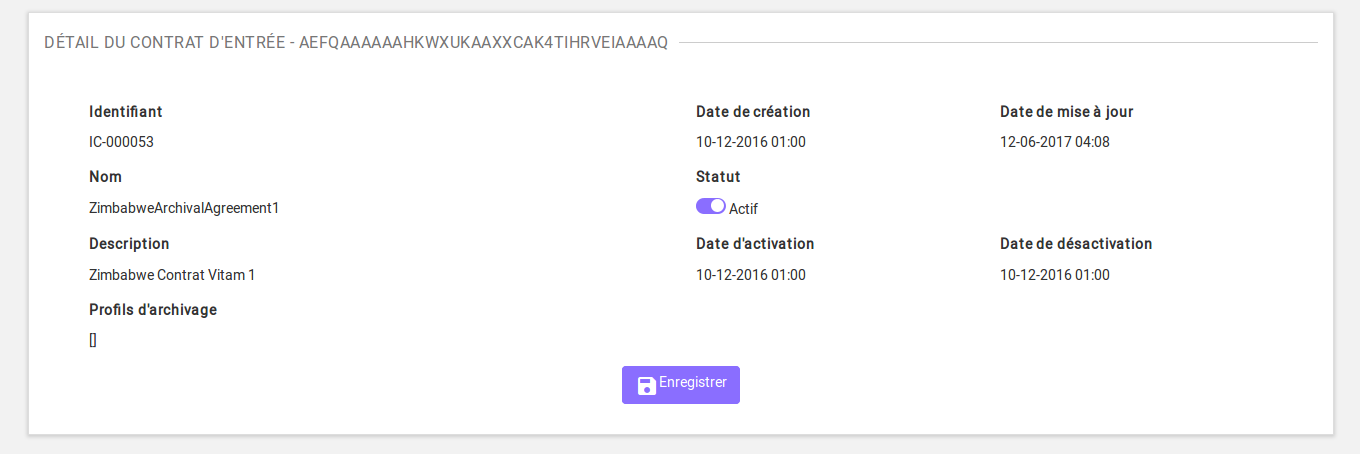
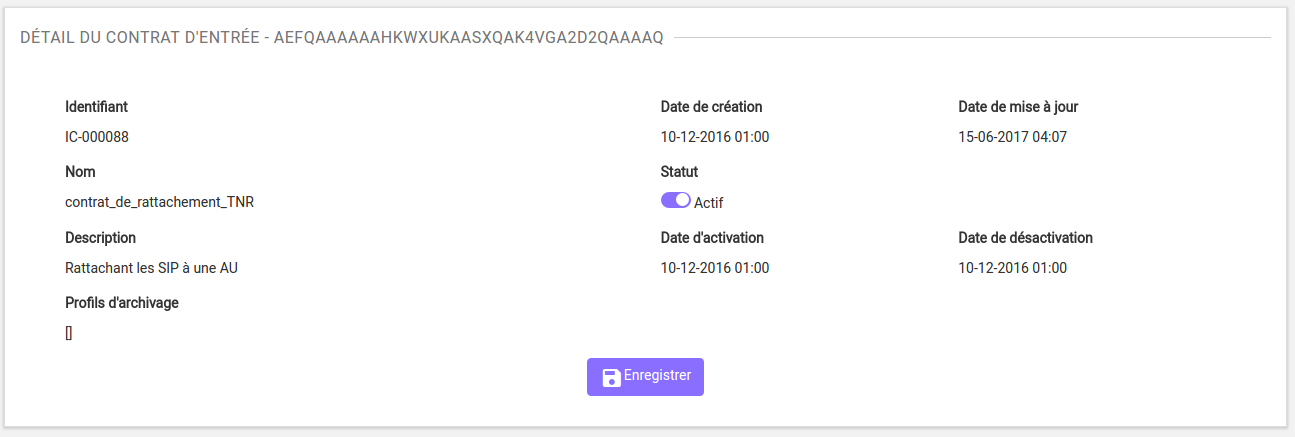
User manual update Linagora IT20

diff --git a/doc/fr/manuel-utilisateur/Administration.rst b/doc/fr/manuel-utilisateur/Administration.rst
@@ -60,9 +60,9 @@ Suite à la recherche, le résultat de la recherche est affiché sous forme de t
 
 .. image:: images/op_resultat.png
 
-L'utilisateur a la possibilité d'afficher des colonnes supplémentaires afin de faire apparaître les autres informations contenues dans le journal des opérations. 
+L'utilisateur a la possibilité d'afficher des colonnes supplémentaires afin de faire apparaître les autres informations contenues dans le journal des opérations.
 
-Pour cela il clique sur le bouton "Informations complémentaires" et sélectionne les informations qu'il souhaite afficher. 
+Pour cela il clique sur le bouton "Informations complémentaires" et sélectionne les informations qu'il souhaite afficher.
 
 Celles-ci sont :
 
@@ -80,7 +80,7 @@ Celles-ci sont :
 - Identifiant externe de l'objet
 - Identifiant du tenant
 
-L'utilisateur a la possibité d'afficher toutes les colonnes supplémentaires en cliquant sur "Tout  sélectionner". 
+L'utilisateur a la possibité d'afficher toutes les colonnes supplémentaires en cliquant sur "Tout  sélectionner".
 
 .. image:: images/op_tout_selectionner.png
 
@@ -329,106 +329,33 @@ Les sous-menus permettant d'accéder aux interfaces de recherche et d’import d
 
 .. image:: images/CONTRACTS_Menu.png
 
-Contrats d'entrée
------------------
-
-**Importer un contrat d'entrée**
-
-Pour importer un contrat d'entrée, l'utilisateur clique sur le menu "Administration" puis sur le sous-menu "importer des contrats d'entrée".
-
-.. image:: images/CONTRACTS_Menu_import_ingest.png
-
-Les contrats d'entrée sont des fichiers JSON constitués des champs suivants :
-
-* Name : nom du contrat (obligatoire)
-* Description : description du contrat (obligatoire)
-* Status : statut du contrat. ACTIVE ou INACTIVE
-
-Il sélectionne ensuite le fichier à importer en cliquant sur "parcourir", puis clique sur "importer" pour lancer l'opération.
-
-.. image:: images/CONTRACTS_ingest_contract_import.png
-
-Une fenêtre modale indique alors soit :
-
-* Les contrats ont bien été importés
-* Échec de l'import du fichier. Ceci peut être causé par :
-	* le fait que les contrats mentionnés existent déjà pour le tenant
-	* le fait que le fichier JSON est invalide
-
-Cette opération est journalisée et disponible dans le Journal des Opérations.
-
-**Rechercher un contrat d'entrée**
-
-Pour accéder à la recherche de contrats d'entrée, l'utilisateur clique sur le menu "Administration", puis sur le sous-menu "Contrat d'entrée".
-
-La page affiche un formulaire de recherche composé des champs suivants :
-
-* Nom du contrat : permet d'effectuer une recherche approchante sur les noms des contrats d'entrée disponibles dans la solution logicielle Vitam.
-* Identifiant : permet d'effectuer une recherche exacte sur les identifiants des contrats.
-
-Par défaut, la solution logicielle Vitam affiche tous les contrats disponibles dans la liste de résultats et l'affine en fonction de la recherche effectuée. La liste des résultats est composée des colonnes suivantes :
-
-* Nom
-* Identifiant
-* Description
-* Statut
-* Date d'activation
-* Date de désactivation
-* Date de création
-* Date modification
-
-En cliquant sur une ligne, l'utilisateur ouvre le détail du contrat d'entrée dans un nouvel onglet.
-
-.. image:: images/CONTRACTS_ingest_contract_search.png
-
-**Détail d'un contrat d'entrée**
-
-La page "Détail d'un contrat d'entrée" contient les informations suivantes :
-
-* ID
-* Nom
-* Description
-* Date de création
-* Statut
-* Date d'activation
-* Date de mise à jour
-* Date de désactivation
-* Profils d'archivage
-
-.. image:: images/CONTRACTS_ingest_contract_detail.png
 
 Contrats d'accès
------------------
+----------------
 
 **Importer un contrat d'accès**
 
-Pour importer un contrat d'accès, l'utilisateur clique sur le menu "Administration" puis sur le sous-menu "importer des contrats d'accès".
+L'import du contrat est une fonctionnalité réservée à un utilisateur ayant des droits d'administration. La structure et les valeurs des contrats sont décrites dans la documentation du modèle de données.
+Pour importer un contrat d'accès, l'utilisateur clique sur le menu "Administration" puis sur le sous-menu "import des contrat d'accès".
 
 .. image:: images/CONTRACTS_Menu_import_acess.png
 
-Les contrats d'accès sont des fichiers JSON constitués des champs suivants :
-
-* Name : nom du contrat (obligatoire)
-* Description : description du contrat (obligatoire)
-* Status : statut du contrat. ACTIVE ou INACTIVE
-* "OriginatingAgencies": tableau contenant le(s) service(s) producteur(s) pour le(s)quel(s) le détenteur du contrat peut accéder aux unités archivistiques (obligatoire)
-
-Il sélectionne ensuite le fichier à importer en cliquant sur "parcourir", puis clique sur "importer" pour lancer l'opération.
+Il sélectionne ensuite le fichier à  importer en cliquant sur "parcourir", puis clique sur "importer" pour lancer l'opération.
 
 .. image:: images/CONTRACTS_access_contract_import.png
 
-Une fenêtre modale indique alors soit :
+Une fenêtre modale s'ouvre alors pour indiquer soit :
 
-* Les contrats ont bien été importés
-* Échec de l'import du fichier. Ceci peut être causé par :
-	* le fait que les contrats mentionnés existent déjà pour le tenant
-	* le fait que le fichier JSON est invalide
+* Que les contrats ont bien été importés
+* Un échec de l'import du fichier. Ceci peut être causé par :
+	* Le fait que les contrats mentionnés existent déjà  pour le tenant
+	* Le fait que le fichier est invalide
 
 Cette opération est journalisée et disponible dans le Journal des Opérations.
 
 **Rechercher un contrat d'accès**
 
-Pour accéder à la recherche de contrats d'accès, l'utilisateur clique sur le menu "Administration", puis sur le sous-menu "Contrat d'accès".
+Pour accéder à la recherche de contrats d'accès, l'utilisateur clique sur le menu "Administration", puis sur le sous-menu "Contrat d'accès".
 
 La page affiche un formulaire de recherche composé des champs suivants :
 
@@ -459,10 +386,121 @@ La page "Détail d'un contrat d'accès" contient les informations suivantes :
 * Statut
 * Service producteur
 * Date d'activation
-* Date de mise à jour
+* Date de mise à  jour
 * Date de désactivation
 
 .. image:: images/CONTRACTS_acces_contract_detail.png
+
+** Utilisation des contrats d'accès **
+
+Chaque profil utilisateur peut être relié à un ou plusieurs contrats, qui restreignent totalement, de manière partielle ou autorisent pleinement l'accès et/ou la modification d'une archive.
+
+*Sélection d'un contrat*
+Pour accéder à  un contrat spécifique, l'utilisateur peut choisir dans le menu déroulant en haut à  droite le contrat concerné.
+Une fois sélectionné, il peut opérer sa recherche d'archive. NB : les contrats du menu déroulants sont les contrats actifs pour l'utilisateur, les contrats inactifs ne sont pas listés.
+
+*Autorisation d'écriture au sein d'une archive*
+L'utilisateur peut écrire et modifier les metadonnées d'une unitié archivistique si le contrat activé l'autorise.
+
+*Activation / désactivation d'un contrat*
+L'administrateur a la possibilité d'activer / désactiver un contrat. Dans l'onglet recherche de contrat, choisir le contrat sélectionné. Activer / désactiver le bouton Actif / Inactif.
+
+*Restriction d'accès par usage de l'objet*
+Un contrat peut interdire l'accès à  un ou plusieurs usages d'objets spécifiques. (ex. : l'utilisateur peut accéder aux usages de diffusions mais pas à la source de l'objet)
+
+
+Contrats d'entrée
+-----------------
+
+**Importer un contrat d'entrée**
+
+L'import du contrat est une fonctionnalité réservée à un utilisateur ayant des droits d'administration. La structure et les valeurs des contrats sont décrites dans la documentation du modèle de données.
+Pour importer un contrat d'entrée, l'utilisateur clique sur le menu "Administration" puis sur le sous-menu "import des contrats d'entrée".
+
+.. image:: images/CONTRACTS_Menu_import_ingest_contract.png
+
+Il sélectionne ensuite le fichier à  importer en cliquant sur "parcourir", puis clique sur "importer" pour lancer l'opération.
+
+.. image:: images/CONTRACTS_ingest_contract_import.png
+
+Une fenêtre modale s'ouvre alors pour indiquer soit :
+
+* Que les contrats ont bien été importés
+* Un échec de l'import du fichier. Ceci peut être causé par :
+	* Le fait que les contrats mentionnés existent déjà  pour le tenant
+	* Le fait que le fichier est invalide
+
+Cette opération est journalisée et disponible dans le Journal des Opérations.
+
+**Rechercher un contrat d'entrée**
+
+Pour accéder à la recherche de contrats d'entrées, l'utilisateur clique sur le menu "Administration", puis sur le sous-menu "Contrat d'entrées".
+
+La page affiche un formulaire de recherche composé des champs suivants :
+
+* Nom du contrat : permet d'effectuer une recherche approchante sur les noms des contrats d'entrées disponibles dans la solution logicielle.
+* Identifiant : permet d'effectuer une recherche exacte sur les identifiants des contrats.
+
+Par défaut, la solution logicielle Vitam affiche tous les contrats disponibles dans la liste de résultats et l'affine en fonction de la recherche effectuée. La liste des résultats est composée des colonnes suivantes :
+
+* Nom
+* Identifiant
+* Description
+* Tenant
+* Statut
+* Date de création
+
+En cliquant sur une ligne, l'utilisateur ouvre le détail du contrat d'entrée dans un nouvel onglet.
+
+.. image:: images/CONTRACTS_ingest_contract_search.png
+
+**Détail d'un contrat d'entrée**
+
+La page "Détail d'un contrat d'accès" contient les informations suivantes :
+
+* ID
+* Nom
+* Description
+* Date de création
+* Statut
+* Date d'activation
+* Date de mise à  jour
+* Date de désactivation
+
+.. image:: images/CONTRACTS_ingest_contract_detail.png
+
+** Utilisation des contrats d'entrée **
+
+Chaque SIP peut être relié à un contrat d'entrée permettant de définir des conditions de versement entre le service versant et la solution logicielle Vitam.
+
+*Activation / désactivation d'un contrat*
+L'administrateur a la possibilité d'activer / désactiver un contrat. Dans l'onglet recherche de contrat, choisir le contrat sélectionné. Activer / désactiver le bouton Actif / Inactif.
+
+
+Contexte
+========
+
+**Importer un contexte**
+
+L'import du contexte est une fonctionnalité réservée à un utilisateur ayant des droits d'administration. La structure et les valeurs des contextes sont décrites dans la documentation du modèle de données.
+Pour importer un contexte, l'utilisateur clique sur le menu "Administration" puis sur le sous-menu "import des contextes".
+
+.. image:: images/CONTRACTS_Menu_import_context.png
+
+Il sélectionne ensuite le fichier à  importer en cliquant sur "parcourir", puis clique sur "importer" pour lancer l'opération.
+
+.. image:: images/CONTRACTS_context_import.png
+
+Une fenêtre modale s'ouvre alors pour indiquer soit :
+
+* Que les contextes ont bien été importés
+* Un échec de l'import du fichier. Ceci peut être causé par :
+	* Le fait que le contexte existe déjà dans le système
+	* Le fait que le fichier est invalide
+  * Le fait que le contexte déclare des contrats d'entrées ou des contrats d'accès qui n'existent pas dans les référentiels des contrats de leurs tenants
+
+Cette opération est journalisée et disponible dans le Journal des Opérations.
+
 
 Profils d'archivage
 ===================
@@ -538,10 +576,10 @@ La page "Détail d'un profil d'archivage" contient les informations suivantes :
 * Date de mise à jour
 * Tenant(s)
 * Date de désactivation
- 
+
 .. image:: images/profil_detail.png
 
-Assoccier un fichier de règles à un profil d'archivage
+Associer un fichier de règles à un profil d'archivage
 -------------------------------------------------------
 
 Pour importer un fichier de règles à associer à un profil d'archivage, l'utilisateur clique sur le bouton "parcourir" à coté du champ "fichier" puis clique sur "importer". Le format du fichier doit correspondre au format attendu, indiqué dans le champ format.
@@ -551,7 +589,7 @@ la fin de l'opération d'import, une fenêtre modale indique un des deux message
 * Le profil a bien été importé
 * Echec de l'import du fichier
 
-L'opération est journalisée et disponible depuis l'écran de consultation des journaux d'opérations. 
+L'opération est journalisée et disponible depuis l'écran de consultation des journaux d'opérations.
 
 En cas de succès de l'import de fichier de règle, la date de mise à jour du profil est ajustée en conséquence. Si l'utilisateur importe un fichier de règle alors qu'un autre fichier de règles a déjà été importé, alors le nouveau fichier remplace l'ancien.
 
@@ -640,7 +678,7 @@ La liste est composée des colonnes suivantes :
 * Mode d’exécution - indique le mode d’exécution choisi. Celui-ci peut-être
 	* Continu
 	* Pas à pas
-* Précédente étape du workflow / étape en cours 
+* Précédente étape du workflow / étape en cours
 * Prochaine étape du workflow
 * Statut - indique si l’opération est :
 	* En attente
@@ -741,7 +779,7 @@ Le détail est composé des élements suivants :
 	* Taille du fichier - taille du journal sécurisé
 * Hash de l'arbre de Merkle
 * Tampon d'horodatage
-  
+
 .. image:: images/securisation_detail.png
 
 Vérification d'un journal sécurisé
